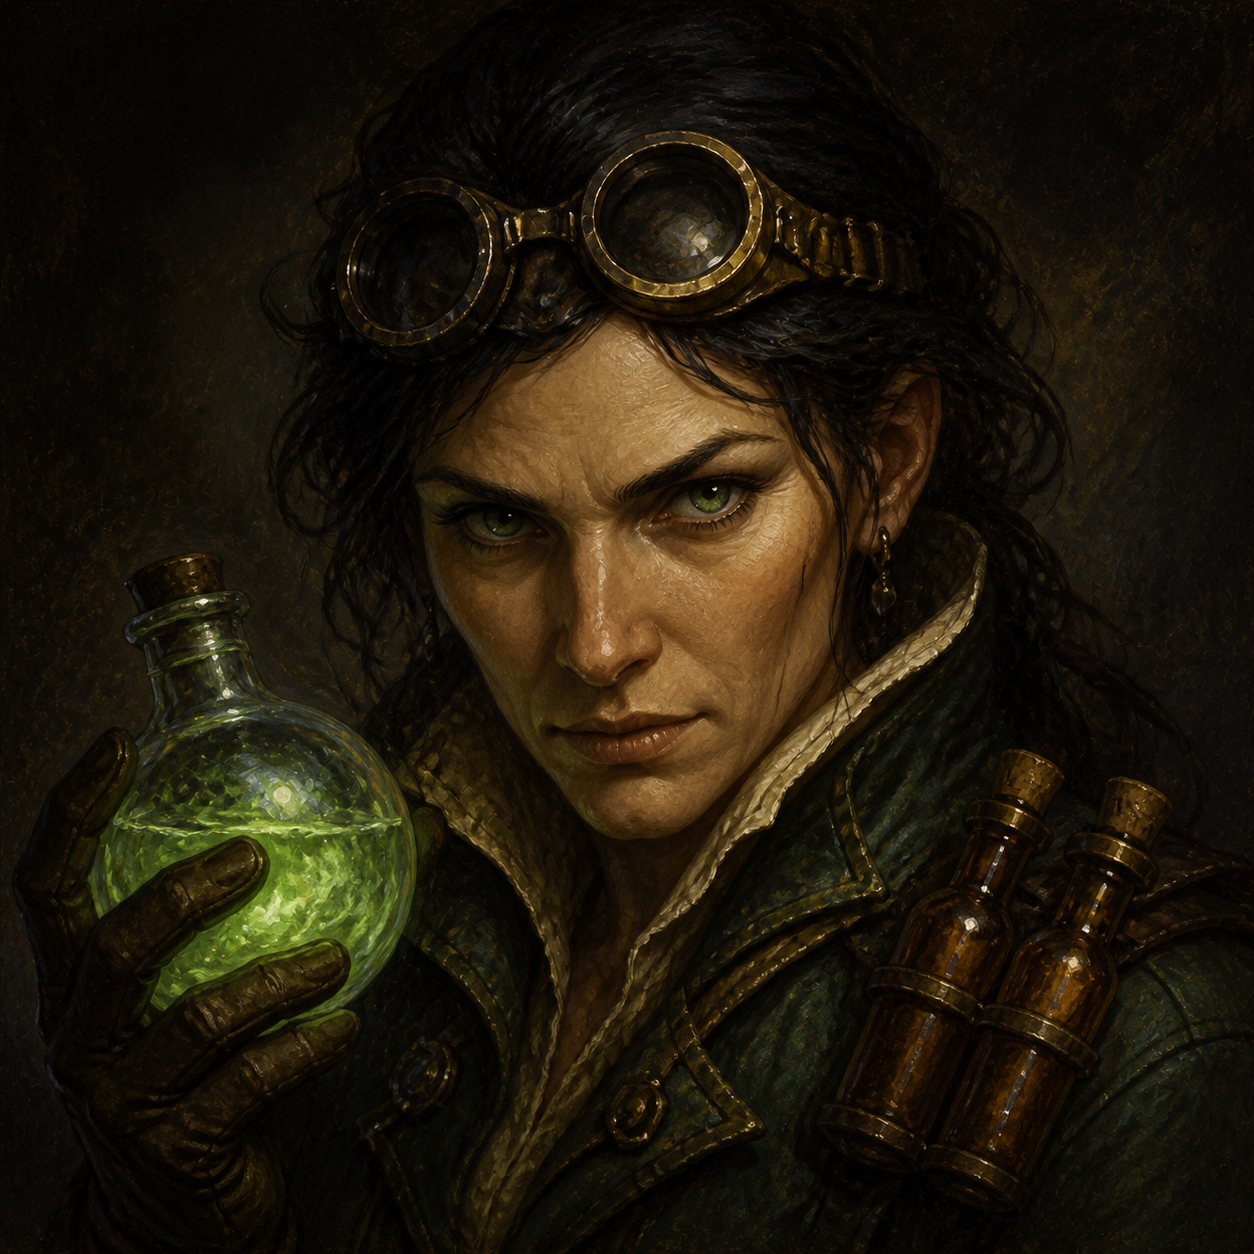
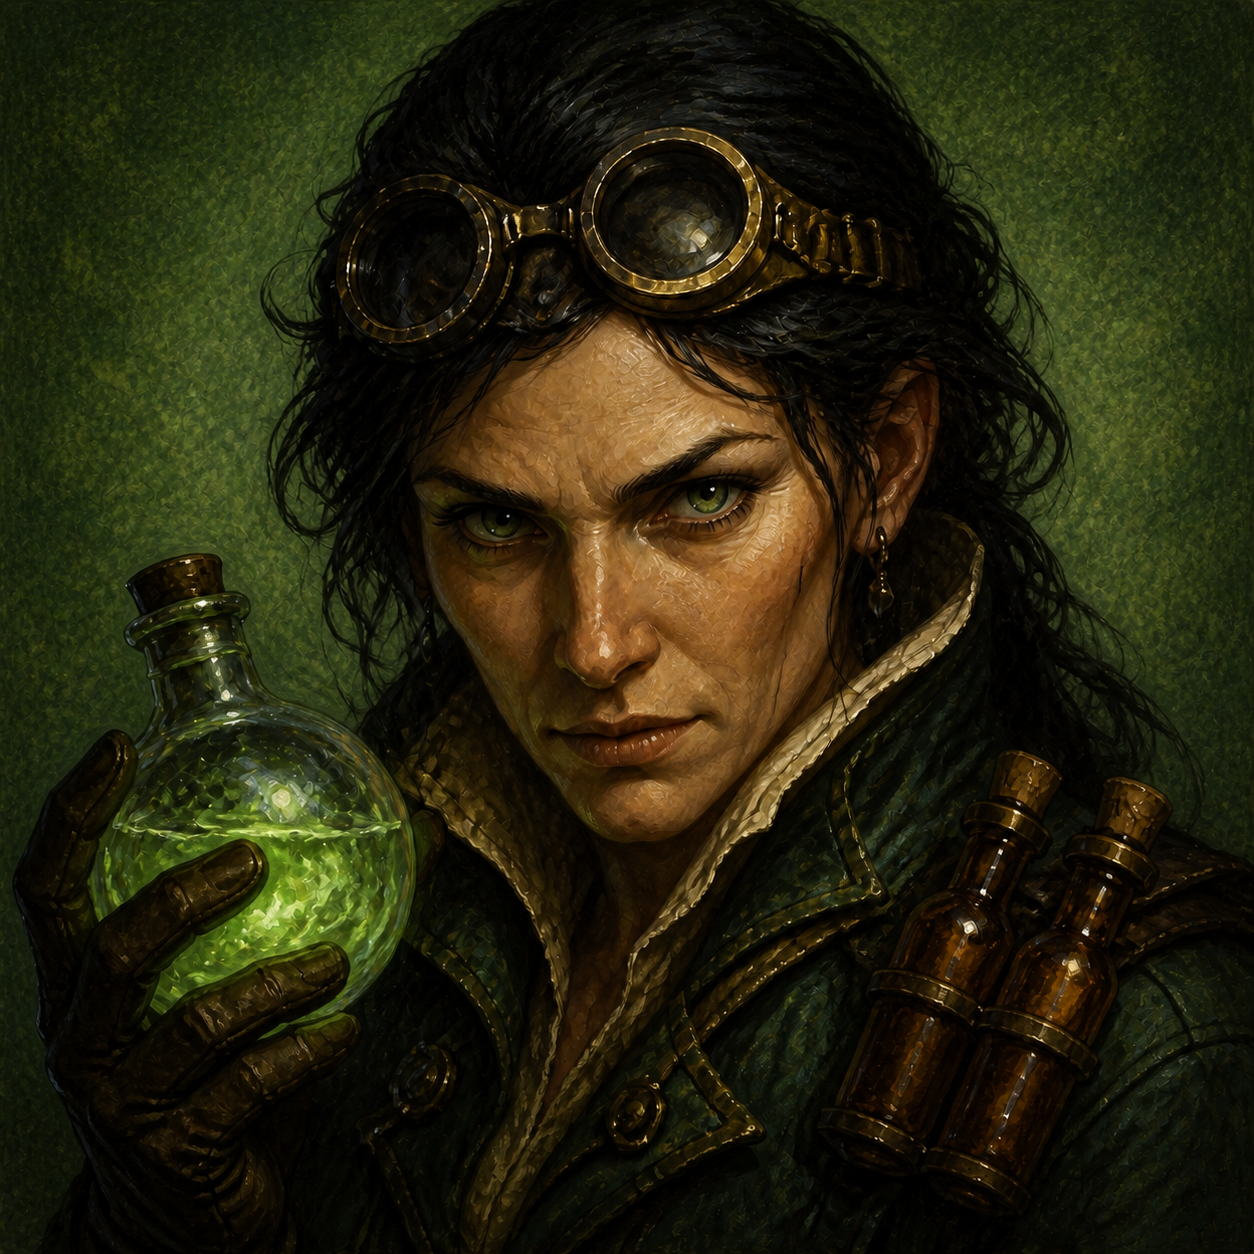
Privateize Alchemist member portrait

diff --git a/src/build_alchemist_probe.py b/src/build_alchemist_probe.py
@@ -445,17 +445,30 @@ def disable_ap10_secondary_control(data: bytes) -> bytes:
     return bytes(output)
 
 
+def privateize_cgal_menu(menu: bytes) -> bytes:
+    """Clone AP10's visual resources for CGAL without touching stock AP10."""
+    if menu.count(b"AVC1") != 1:
+        raise ValueError(
+            "Stock AP10 Cultist member/count icon contract changed: expected one AVC1"
+        )
+    return (
+        # AP10 embeds AVC1 for the Cultist guild member/count portrait.
+        # Privatize that reference in the cloned CGAL resource exactly as the
+        # proven Haunt panel does; never alter AP10 or the stock AVC1 IMAG.
+        menu.replace(b"AVC1", b"ALC1")
+        .replace(b"INTI", b"ALTI")
+        .replace(b"INBb", b"ALBB")
+        .replace(b"INBg", b"ALBG")
+    )
+
+
 def build_text_cam(
     stock_text_cam: Path,
     output_path: Path,
     enable_unsafe_brewing_control: bool = False,
 ) -> None:
     menu = read_cam_entry(stock_text_cam, b"SMNU", SOURCE_DIALOG_ID).data
-    menu = (
-        menu.replace(b"INTI", b"ALTI")
-        .replace(b"INBb", b"ALBB")
-        .replace(b"INBg", b"ALBG")
-    )
+    menu = privateize_cgal_menu(menu)
     if not enable_unsafe_brewing_control:
         menu = disable_ap10_secondary_control(menu)
     strings = read_cam_entry(stock_text_cam, b"STRT", SOURCE_DIALOG_ID).data

diff --git a/tests/test_build_alchemist_probe.py b/tests/test_build_alchemist_probe.py
@@ -12,6 +12,17 @@ import alchemist_art_package as art_package
 
 
 class AlchemistProbeTests(unittest.TestCase):
+    def test_cgal_privateizes_stock_cultist_member_icon(self) -> None:
+        stock = b"prefix AVC1 suffix INTI INBb INBg"
+        cloned = builder.privateize_cgal_menu(stock)
+        self.assertIn(b"ALC1", cloned)
+        self.assertNotIn(b"AVC1", cloned)
+        self.assertEqual(stock, b"prefix AVC1 suffix INTI INBb INBg")
+
+    def test_cgal_member_icon_clone_rejects_stock_layout_drift(self) -> None:
+        with self.assertRaisesRegex(ValueError, "expected one AVC1"):
+            builder.privateize_cgal_menu(b"INTI INBb INBg")
+
     def test_vigor_enabled_icon_is_colored_and_disabled_mask_is_grey(self) -> None:
         enabled_background, enabled_border, enabled_brightness = (
             art_package.VIGOR_ICON_STYLES[199]
